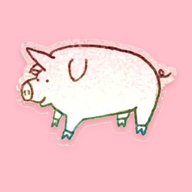
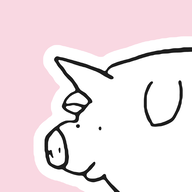
APP 圖示換為 Roseline 自製版（平滑處理、含版權戳記）

diff --git a/sw.js b/sw.js
@@ -1,6 +1,6 @@
 // sw.js v4 ── service worker（守門員）。第一次開啟時把檔案存進手機，之後離線也能用。
 // 每次改程式要把 VERSION 改一個新字串，手機才會換新版。
-const VERSION = 'v4.1-2026-09-14';
+const VERSION = 'v4.2-icon-2026-09-14';
 const FILES = [
   './', './index.html', './css/style.css',
   './js/app.js', './js/storage.js', './js/foods.js', './js/firebase-config.js',
